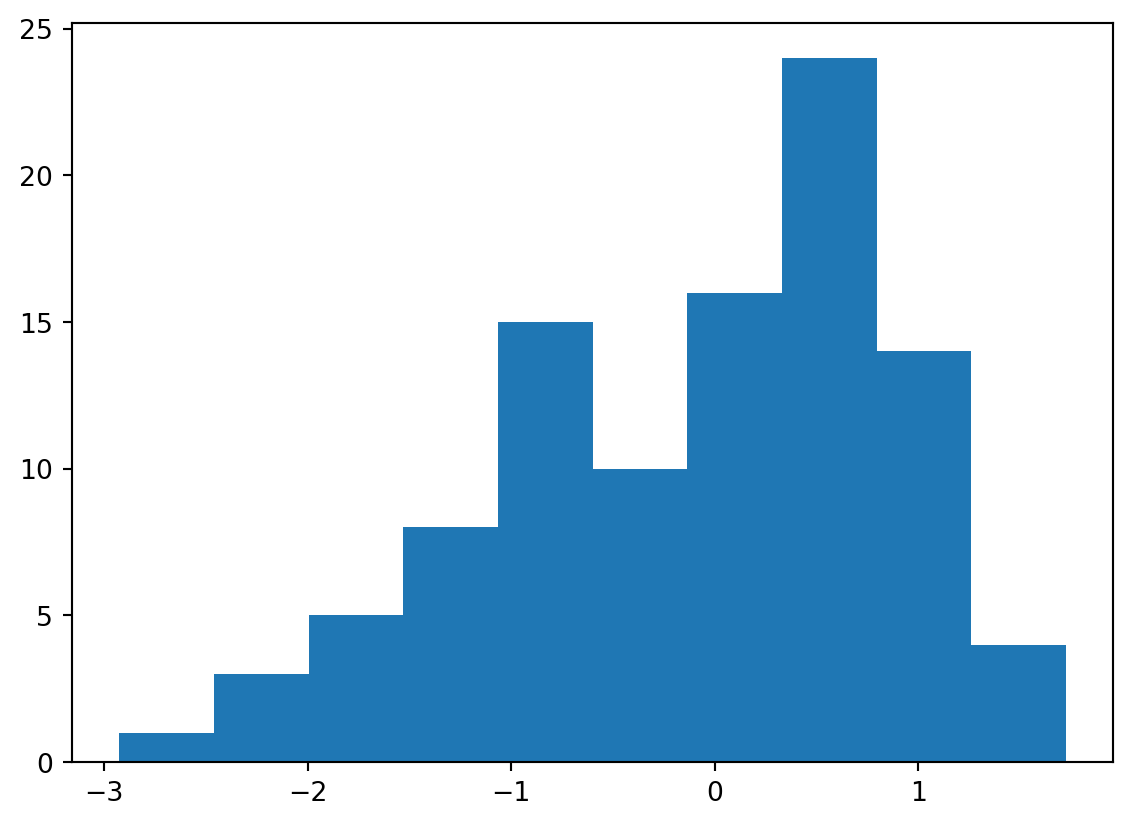
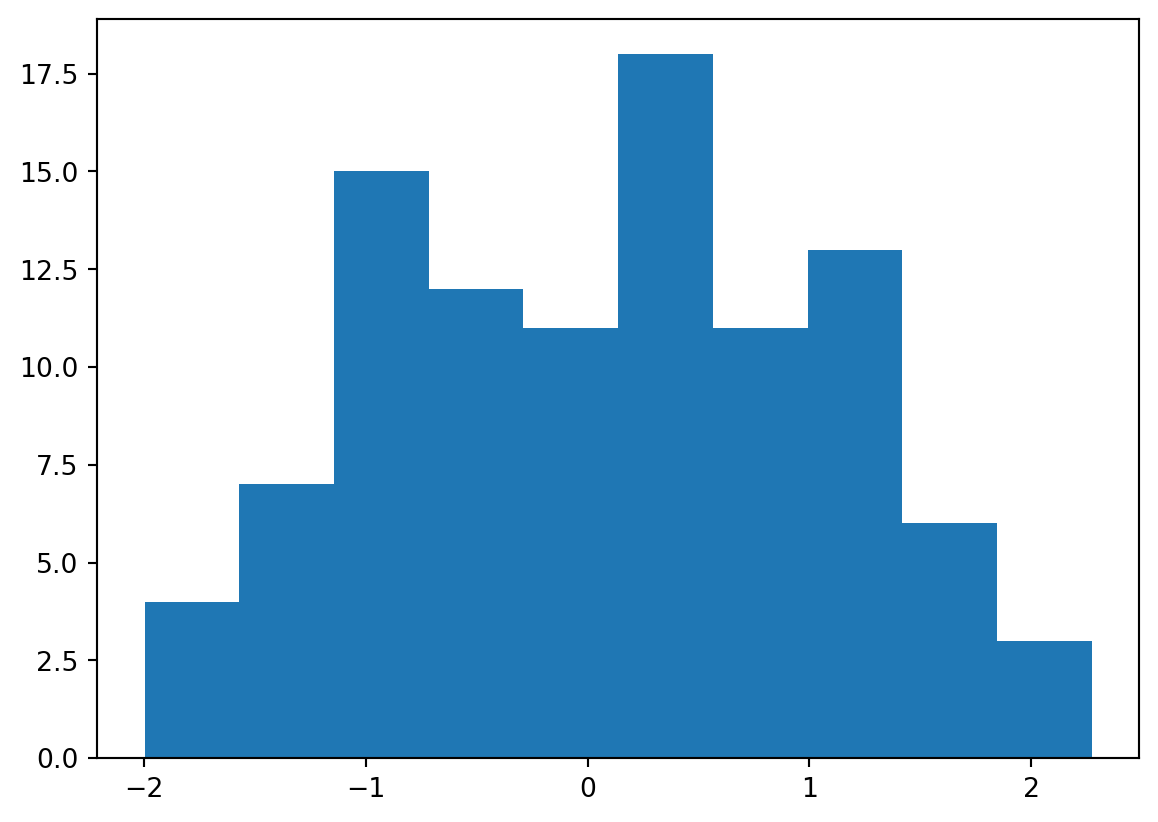
Built site for gh-pages

diff --git a/license.html b/license.html
@@ -71,12 +71,109 @@ ul.task-list li input[type="checkbox"] {
 <link rel="stylesheet" href="assets/styles.css">
 </head>
 
-<body>
+<body class="nav-sidebar docked">
 
 <div id="quarto-search-results"></div>
+  <header id="quarto-header" class="headroom fixed-top">
+  <nav class="quarto-secondary-nav">
+    <div class="container-fluid d-flex">
+      <button type="button" class="quarto-btn-toggle btn" data-bs-toggle="collapse" role="button" data-bs-target=".quarto-sidebar-collapse-item" aria-controls="quarto-sidebar" aria-expanded="false" aria-label="Toggle sidebar navigation" onclick="if (window.quartoToggleHeadroom) { window.quartoToggleHeadroom(); }">
+        <i class="bi bi-layout-text-sidebar-reverse"></i>
+      </button>
+        <nav class="quarto-page-breadcrumbs" aria-label="breadcrumb"><ol class="breadcrumb"><li class="breadcrumb-item"><a href="./license.html">License</a></li></ol></nav>
+        <a class="flex-grow-1" role="navigation" data-bs-toggle="collapse" data-bs-target=".quarto-sidebar-collapse-item" aria-controls="quarto-sidebar" aria-expanded="false" aria-label="Toggle sidebar navigation" onclick="if (window.quartoToggleHeadroom) { window.quartoToggleHeadroom(); }">      
+        </a>
+      <button type="button" class="btn quarto-search-button" aria-label="Search" onclick="window.quartoOpenSearch();">
+        <i class="bi bi-search"></i>
+      </button>
+    </div>
+  </nav>
+</header>
 <!-- content -->
 <div id="quarto-content" class="quarto-container page-columns page-rows-contents page-layout-article">
 <!-- sidebar -->
+  <nav id="quarto-sidebar" class="sidebar collapse collapse-horizontal quarto-sidebar-collapse-item sidebar-navigation docked overflow-auto">
+    <div class="pt-lg-2 mt-2 text-left sidebar-header sidebar-header-stacked">
+      <a href="./index.html" class="sidebar-logo-link">
+      <img src="./assets/stat_bear.png" alt="" class="sidebar-logo py-0 d-lg-inline d-none">
+      </a>
+    <div class="sidebar-title mb-0 py-0">
+      <a href="./">Stat 999</a> 
+        <div class="sidebar-tools-main">
+    <a href="https://github.com/berkeley-scf/course-site-quarto" title="" class="quarto-navigation-tool px-1" aria-label=""><i class="bi bi-github"></i></a>
+</div>
+    </div>
+      </div>
+        <div class="mt-2 flex-shrink-0 align-items-center">
+        <div class="sidebar-search">
+        <div id="quarto-search" class="" title="Search"></div>
+        </div>
+        </div>
+    <div class="sidebar-menu-container"> 
+    <ul class="list-unstyled mt-1">
+        <li class="sidebar-item">
+  <div class="sidebar-item-container"> 
+  <a href="./index.html" class="sidebar-item-text sidebar-link">
+ <span class="menu-text">Home / Schedule</span></a>
+  </div>
+</li>
+        <li class="sidebar-item">
+  <div class="sidebar-item-container"> 
+  <a href="./syllabus.html" class="sidebar-item-text sidebar-link">
+ <span class="menu-text">Syllabus</span></a>
+  </div>
+</li>
+        <li class="sidebar-item">
+  <div class="sidebar-item-container"> 
+  <a href="./calendar.html" class="sidebar-item-text sidebar-link">
+ <span class="menu-text">Calendar</span></a>
+  </div>
+</li>
+        <li class="sidebar-item sidebar-item-section">
+      <div class="sidebar-item-container"> 
+            <a class="sidebar-item-text sidebar-link text-start" data-bs-toggle="collapse" data-bs-target="#quarto-sidebar-section-1" role="navigation" aria-expanded="true">
+ <span class="menu-text">Units</span></a>
+          <a class="sidebar-item-toggle text-start" data-bs-toggle="collapse" data-bs-target="#quarto-sidebar-section-1" role="navigation" aria-expanded="true" aria-label="Toggle section">
+            <i class="bi bi-chevron-right ms-2"></i>
+          </a> 
+      </div>
+      <ul id="quarto-sidebar-section-1" class="collapse list-unstyled sidebar-section depth1 show">  
+          <li class="sidebar-item">
+  <div class="sidebar-item-container"> 
+  <a href="./units/unit1.html" class="sidebar-item-text sidebar-link">
+ <span class="menu-text">Unit 1: Intro</span></a>
+  </div>
+</li>
+          <li class="sidebar-item">
+  <div class="sidebar-item-container"> 
+  <a href="./units/unit2.html" class="sidebar-item-text sidebar-link">
+ <span class="menu-text">Unit 2: Next</span></a>
+  </div>
+</li>
+          <li class="sidebar-item">
+  <div class="sidebar-item-container"> 
+  <a href="./units/unit3.html" class="sidebar-item-text sidebar-link">
+ <span class="menu-text">Unit 3: More</span></a>
+  </div>
+</li>
+      </ul>
+  </li>
+        <li class="sidebar-item">
+  <div class="sidebar-item-container"> 
+  <a href="./data.html" class="sidebar-item-text sidebar-link">
+ <span class="menu-text">Datasets</span></a>
+  </div>
+</li>
+        <li class="sidebar-item">
+  <div class="sidebar-item-container"> 
+  <a href="./license.html" class="sidebar-item-text sidebar-link active">
+ <span class="menu-text">License</span></a>
+  </div>
+</li>
+    </ul>
+    </div>
+</nav>
+<div id="quarto-sidebar-glass" class="quarto-sidebar-collapse-item" data-bs-toggle="collapse" data-bs-target=".quarto-sidebar-collapse-item"></div>
 <!-- margin-sidebar -->
     <div id="quarto-margin-sidebar" class="sidebar margin-sidebar zindex-bottom">
         

diff --git a/units/unit1.html b/units/unit1.html
@@ -227,11 +227,15 @@ window.Quarto = {
  <span class="menu-text">Datasets</span></a>
   </div>
 </li>
+        <li class="sidebar-item">
+  <div class="sidebar-item-container"> 
+  <a href="../license.html" class="sidebar-item-text sidebar-link">
+ <span class="menu-text">License</span></a>
+  </div>
+</li>
     </ul>
     </div>
-<div class="quarto-sidebar-footer"><div class="sidebar-footer-item">
-<p><a href="../license.html">License</a></p>
-</div></div></nav>
+</nav>
 <div id="quarto-sidebar-glass" class="quarto-sidebar-collapse-item" data-bs-toggle="collapse" data-bs-target=".quarto-sidebar-collapse-item"></div>
 <!-- margin-sidebar -->
     <div id="quarto-margin-sidebar" class="sidebar margin-sidebar">
@@ -277,7 +281,7 @@ $$
 <p>This is an example of using qmd as the source document.</p>
 <section id="evaluated-python-code-chunk-with-a-plot" class="level2">
 <h2 class="anchored" data-anchor-id="evaluated-python-code-chunk-with-a-plot">Evaluated Python code chunk, with a plot</h2>
-<div id="3b9f5045" class="cell" data-execution_count="1">
+<div id="e47bafa7" class="cell" data-execution_count="1">
 <details open="" class="code-fold">
 <summary>Code</summary>
 <div class="sourceCode cell-code" id="cb1"><pre class="sourceCode python code-with-copy"><code class="sourceCode python"><span id="cb1-1"><a href="#cb1-1" aria-hidden="true" tabindex="-1"></a><span class="im">import</span> numpy <span class="im">as</span> np</span>
@@ -290,12 +294,12 @@ $$
 <div class="cell-output cell-output-display">
 <div>
 <figure class="figure">
-<p><img src="unit1_files/figure-html/cell-2-output-1.png" width="566" height="413" class="figure-img"></p>
+<p><img src="unit1_files/figure-html/cell-2-output-1.png" width="579" height="411" class="figure-img"></p>
 </figure>
 </div>
 </div>
 <div class="cell-output cell-output-display" data-execution_count="1">
-<pre><code>-0.09551244301740493</code></pre>
+<pre><code>0.09817992201128653</code></pre>
 </div>
 </div>
 </section>
@@ -357,7 +361,7 @@ Tip with Title
 </div>
 <div id="tabset-1-2" class="tab-pane" role="tabpanel" aria-labelledby="tabset-1-2-tab">
 <p>This code is executed.</p>
-<div id="5449f5ab" class="cell" data-execution_count="2">
+<div id="d03be406" class="cell" data-execution_count="2">
 <details open="" class="code-fold">
 <summary>Code</summary>
 <div class="sourceCode cell-code" id="cb4"><pre class="sourceCode python code-with-copy"><code class="sourceCode python"><span id="cb4-1"><a href="#cb4-1" aria-hidden="true" tabindex="-1"></a><span class="kw">def</span> fizz_buzz(num):</span>

diff --git a/units/unit3.html b/units/unit3.html
@@ -227,11 +227,15 @@ window.Quarto = {
  <span class="menu-text">Datasets</span></a>
   </div>
 </li>
+        <li class="sidebar-item">
+  <div class="sidebar-item-container"> 
+  <a href="../license.html" class="sidebar-item-text sidebar-link">
+ <span class="menu-text">License</span></a>
+  </div>
+</li>
     </ul>
     </div>
-<div class="quarto-sidebar-footer"><div class="sidebar-footer-item">
-<p><a href="../license.html">License</a></p>
-</div></div></nav>
+</nav>
 <div id="quarto-sidebar-glass" class="quarto-sidebar-collapse-item" data-bs-toggle="collapse" data-bs-target=".quarto-sidebar-collapse-item"></div>
 <!-- margin-sidebar -->
     <div id="quarto-margin-sidebar" class="sidebar margin-sidebar">
@@ -274,7 +278,7 @@ $$
 <p>This is an example of using qmd as the source document with pdf as one target. I’ve taken out the qmd stuff that doesn’t seem to render to pdf.</p>
 <section id="evaluated-python-code-chunk-with-a-plot" class="level2">
 <h2 class="anchored" data-anchor-id="evaluated-python-code-chunk-with-a-plot">Evaluated Python code chunk, with a plot</h2>
-<div id="769389af" class="cell" data-execution_count="1">
+<div id="ecca827c" class="cell" data-execution_count="1">
 <details open="" class="code-fold">
 <summary>Code</summary>
 <div class="sourceCode cell-code" id="cb1"><pre class="sourceCode python code-with-copy"><code class="sourceCode python"><span id="cb1-1"><a href="#cb1-1" aria-hidden="true" tabindex="-1"></a><span class="im">import</span> numpy <span class="im">as</span> np</span>
@@ -292,7 +296,7 @@ $$
 </div>
 </div>
 <div class="cell-output cell-output-display" data-execution_count="1">
-<pre><code>-0.15013934163109383</code></pre>
+<pre><code>-0.10333377730848098</code></pre>
 </div>
 </div>
 </section>

diff --git a/calendar.html b/calendar.html
@@ -164,11 +164,15 @@ ul.task-list li input[type="checkbox"] {
  <span class="menu-text">Datasets</span></a>
   </div>
 </li>
+        <li class="sidebar-item">
+  <div class="sidebar-item-container"> 
+  <a href="./license.html" class="sidebar-item-text sidebar-link">
+ <span class="menu-text">License</span></a>
+  </div>
+</li>
     </ul>
     </div>
-<div class="quarto-sidebar-footer"><div class="sidebar-footer-item">
-<p><a href="./license.html">License</a></p>
-</div></div></nav>
+</nav>
 <div id="quarto-sidebar-glass" class="quarto-sidebar-collapse-item" data-bs-toggle="collapse" data-bs-target=".quarto-sidebar-collapse-item"></div>
 <!-- margin-sidebar -->
     <div id="quarto-margin-sidebar" class="sidebar margin-sidebar zindex-bottom">

diff --git a/data.html b/data.html
@@ -164,11 +164,15 @@ ul.task-list li input[type="checkbox"] {
  <span class="menu-text">Datasets</span></a>
   </div>
 </li>
+        <li class="sidebar-item">
+  <div class="sidebar-item-container"> 
+  <a href="./license.html" class="sidebar-item-text sidebar-link">
+ <span class="menu-text">License</span></a>
+  </div>
+</li>
     </ul>
     </div>
-<div class="quarto-sidebar-footer"><div class="sidebar-footer-item">
-<p><a href="./license.html">License</a></p>
-</div></div></nav>
+</nav>
 <div id="quarto-sidebar-glass" class="quarto-sidebar-collapse-item" data-bs-toggle="collapse" data-bs-target=".quarto-sidebar-collapse-item"></div>
 <!-- margin-sidebar -->
     <div id="quarto-margin-sidebar" class="sidebar margin-sidebar">

diff --git a/syllabus.html b/syllabus.html
@@ -164,11 +164,15 @@ ul.task-list li input[type="checkbox"] {
  <span class="menu-text">Datasets</span></a>
   </div>
 </li>
+        <li class="sidebar-item">
+  <div class="sidebar-item-container"> 
+  <a href="./license.html" class="sidebar-item-text sidebar-link">
+ <span class="menu-text">License</span></a>
+  </div>
+</li>
     </ul>
     </div>
-<div class="quarto-sidebar-footer"><div class="sidebar-footer-item">
-<p><a href="./license.html">License</a></p>
-</div></div></nav>
+</nav>
 <div id="quarto-sidebar-glass" class="quarto-sidebar-collapse-item" data-bs-toggle="collapse" data-bs-target=".quarto-sidebar-collapse-item"></div>
 <!-- margin-sidebar -->
     <div id="quarto-margin-sidebar" class="sidebar margin-sidebar">

diff --git a/units/unit2.html b/units/unit2.html
@@ -228,11 +228,15 @@ window.Quarto = {
  <span class="menu-text">Datasets</span></a>
   </div>
 </li>
+        <li class="sidebar-item">
+  <div class="sidebar-item-container"> 
+  <a href="../license.html" class="sidebar-item-text sidebar-link">
+ <span class="menu-text">License</span></a>
+  </div>
+</li>
     </ul>
     </div>
-<div class="quarto-sidebar-footer"><div class="sidebar-footer-item">
-<p><a href="../license.html">License</a></p>
-</div></div></nav>
+</nav>
 <div id="quarto-sidebar-glass" class="quarto-sidebar-collapse-item" data-bs-toggle="collapse" data-bs-target=".quarto-sidebar-collapse-item"></div>
 <!-- margin-sidebar -->
     <div id="quarto-margin-sidebar" class="sidebar margin-sidebar">

diff --git a/index.html b/index.html
@@ -252,11 +252,15 @@ window.Quarto = {
  <span class="menu-text">Datasets</span></a>
   </div>
 </li>
+        <li class="sidebar-item">
+  <div class="sidebar-item-container"> 
+  <a href="./license.html" class="sidebar-item-text sidebar-link">
+ <span class="menu-text">License</span></a>
+  </div>
+</li>
     </ul>
     </div>
-<div class="quarto-sidebar-footer"><div class="sidebar-footer-item">
-<p><a href="./license.html">License</a></p>
-</div></div></nav>
+</nav>
 <div id="quarto-sidebar-glass" class="quarto-sidebar-collapse-item" data-bs-toggle="collapse" data-bs-target=".quarto-sidebar-collapse-item"></div>
 <!-- margin-sidebar -->
     <div id="quarto-margin-sidebar" class="sidebar margin-sidebar">
